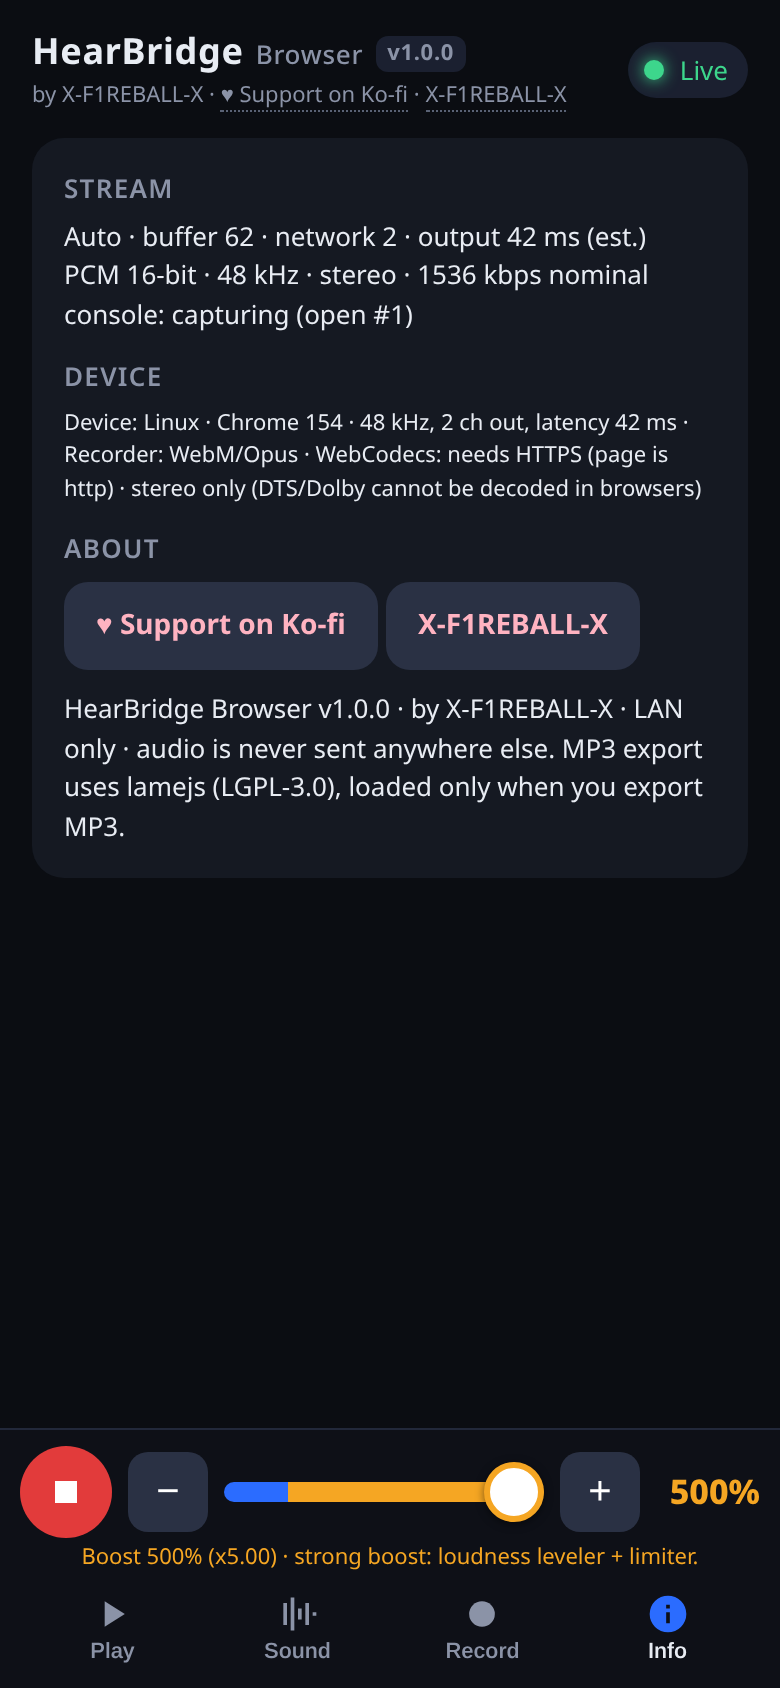
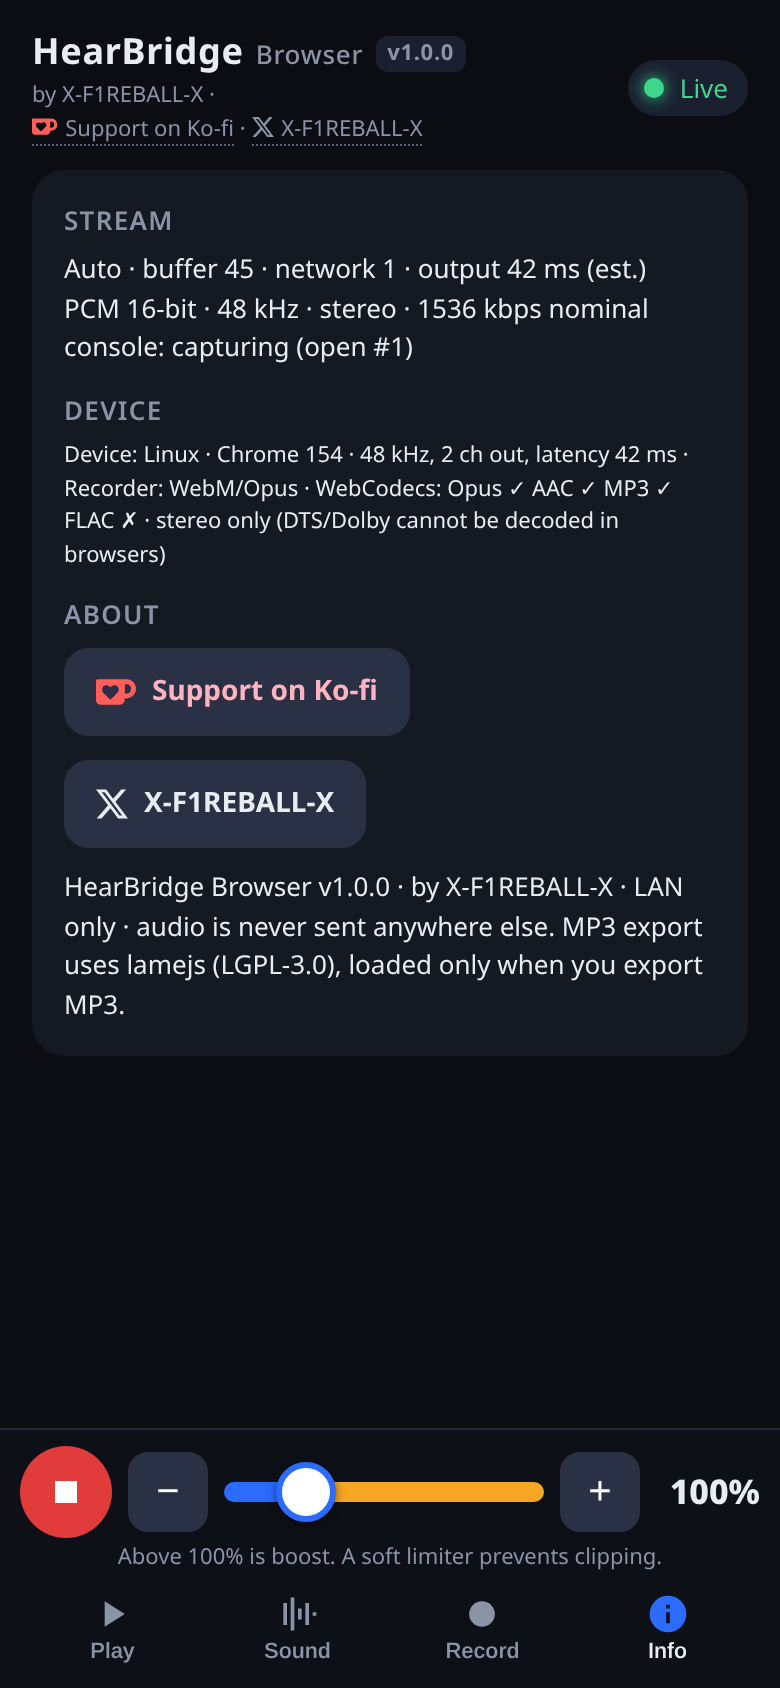
readme: new screenshots, one per tab plus tablet

diff --git a/README.md b/README.md
@@ -73,12 +73,26 @@ Send a POST to `http://<console-ip>:8096/api/stop`, or reboot the console.
 
 ## Screenshots
 
-<p align="center">
-  <img src="docs/screenshots/play.png" alt="Play" width="24%">
-  <img src="docs/screenshots/play-500.png" alt="Volume boost" width="24%">
-  <img src="docs/screenshots/info.png" alt="Info" width="24%">
-  <img src="docs/screenshots/iphone.png" alt="iPhone" width="24%">
-</p>
+<table>
+  <tr>
+    <th>Play</th>
+    <th>Sound</th>
+    <th>Record</th>
+    <th>Info</th>
+  </tr>
+  <tr>
+    <td width="25%"><img src="docs/screenshots/play.png" alt="Play tab"></td>
+    <td width="25%"><img src="docs/screenshots/sound.png" alt="Sound tab"></td>
+    <td width="25%"><img src="docs/screenshots/record.png" alt="Record tab with export"></td>
+    <td width="25%"><img src="docs/screenshots/info.png" alt="Info tab"></td>
+  </tr>
+  <tr>
+    <th colspan="4">Tablet</th>
+  </tr>
+  <tr>
+    <td colspan="4"><img src="docs/screenshots/tablet.png" alt="Tablet layout"></td>
+  </tr>
+</table>
 
 ## Building from source
 
